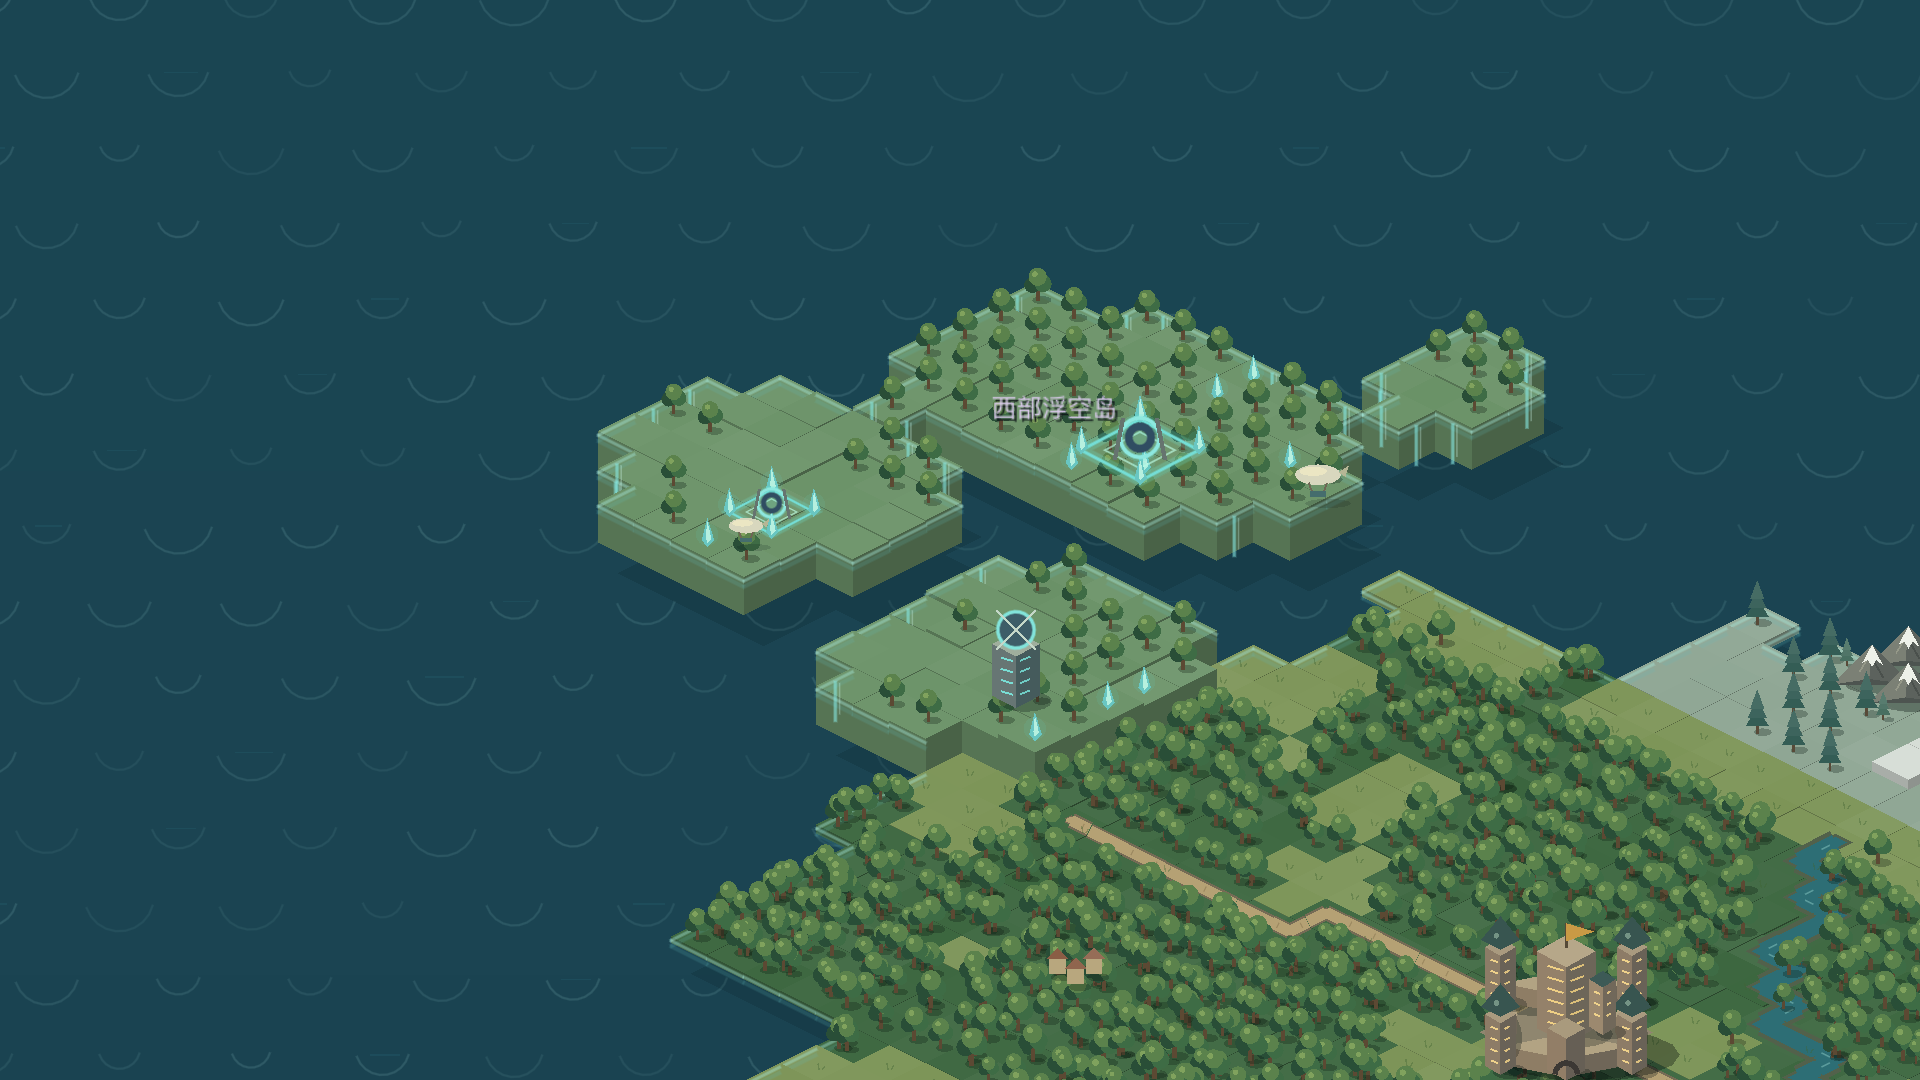
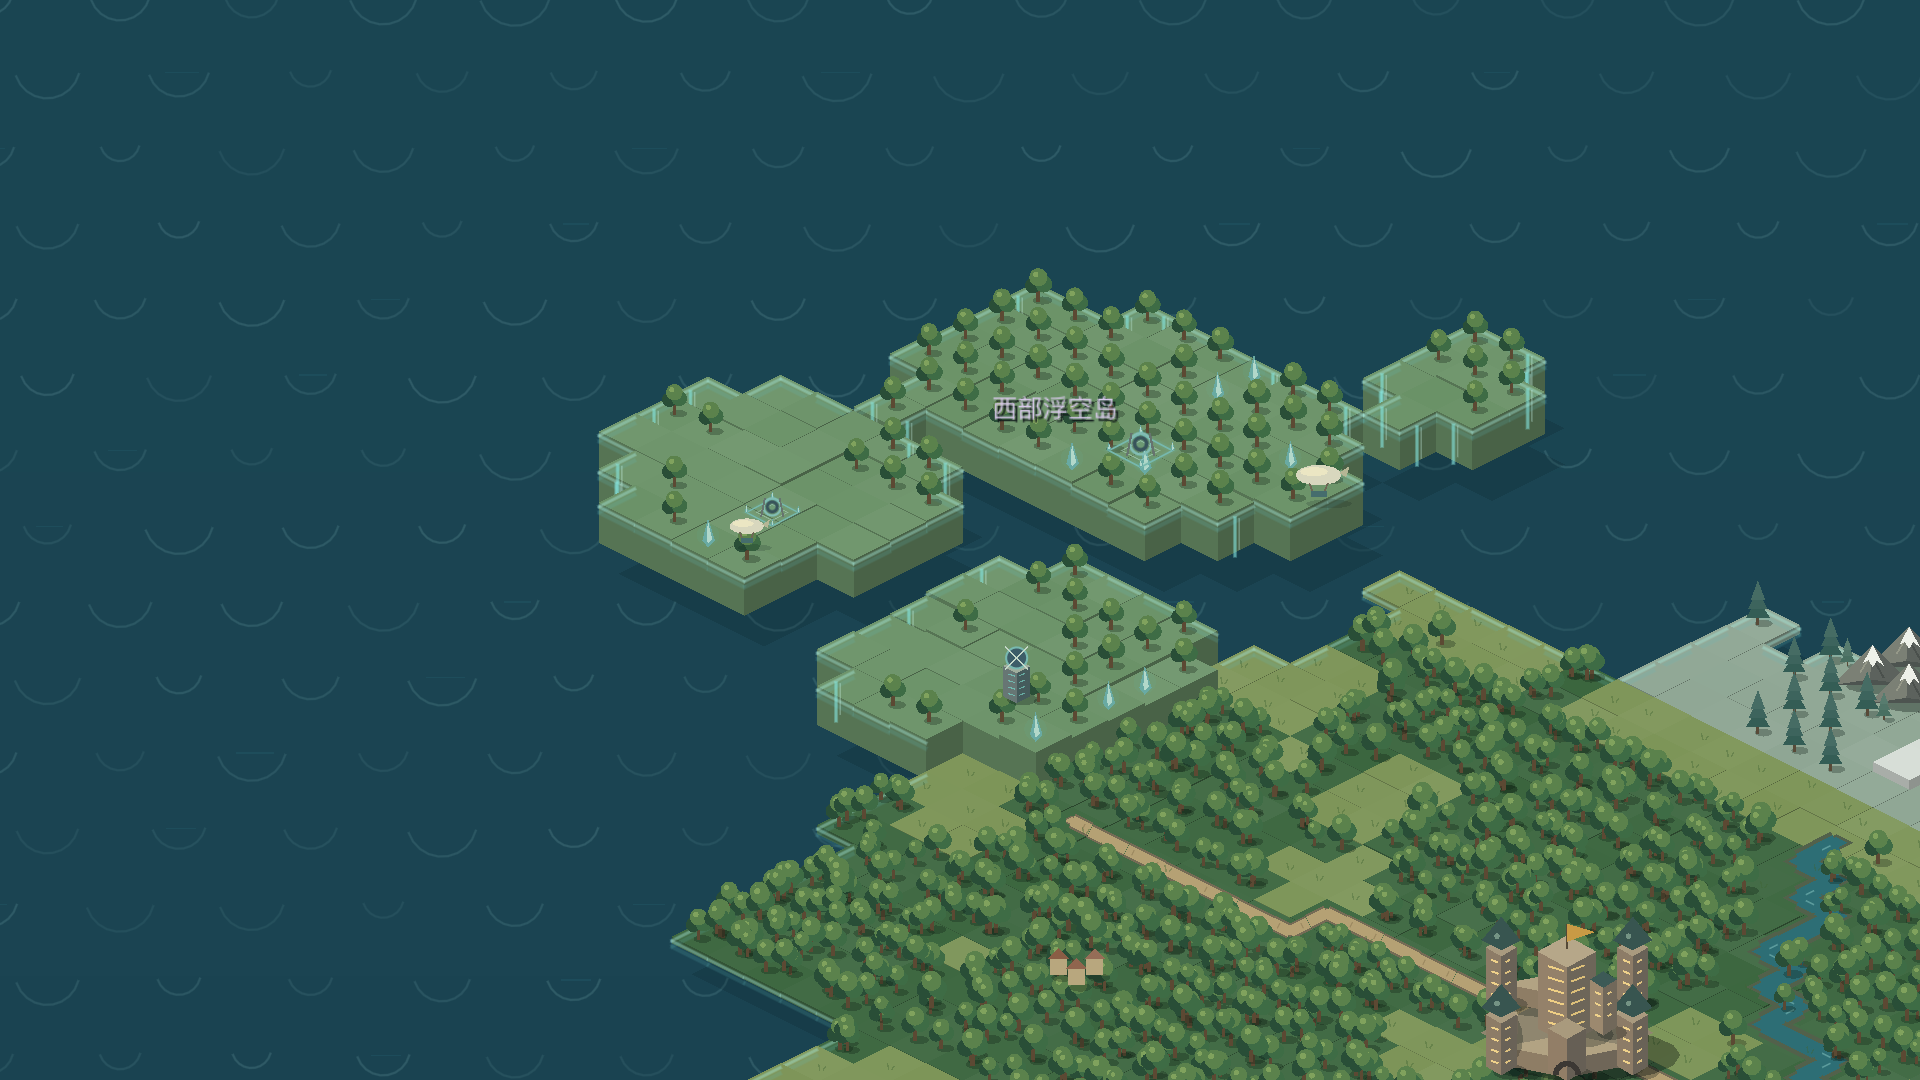
Normalize regional landmark scale

diff --git a/docs/ring_world_map.md b/docs/ring_world_map.md
@@ -49,6 +49,9 @@ The active campaign map is a lightweight 2D isometric tile map implemented in
 - Heren's mountain mines use rock-backed mine mouths, timber portals,
   conveyors, processing sheds, ore carts and spoil piles, distinct from the
   factories along the eastern coast.
+- Secondary regional props follow the base 52 by 26 tile scale: villages,
+  island settlements, mines, vessels and magical structures stay within one
+  or two local cells, while only capital districts use a larger footprint.
 - The campaign marker and route layer is currently disabled so landmarks stay
   readable while the world art is being developed. Set
   `show_campaign_overlay` on the map scene when that layer is ready to return.
